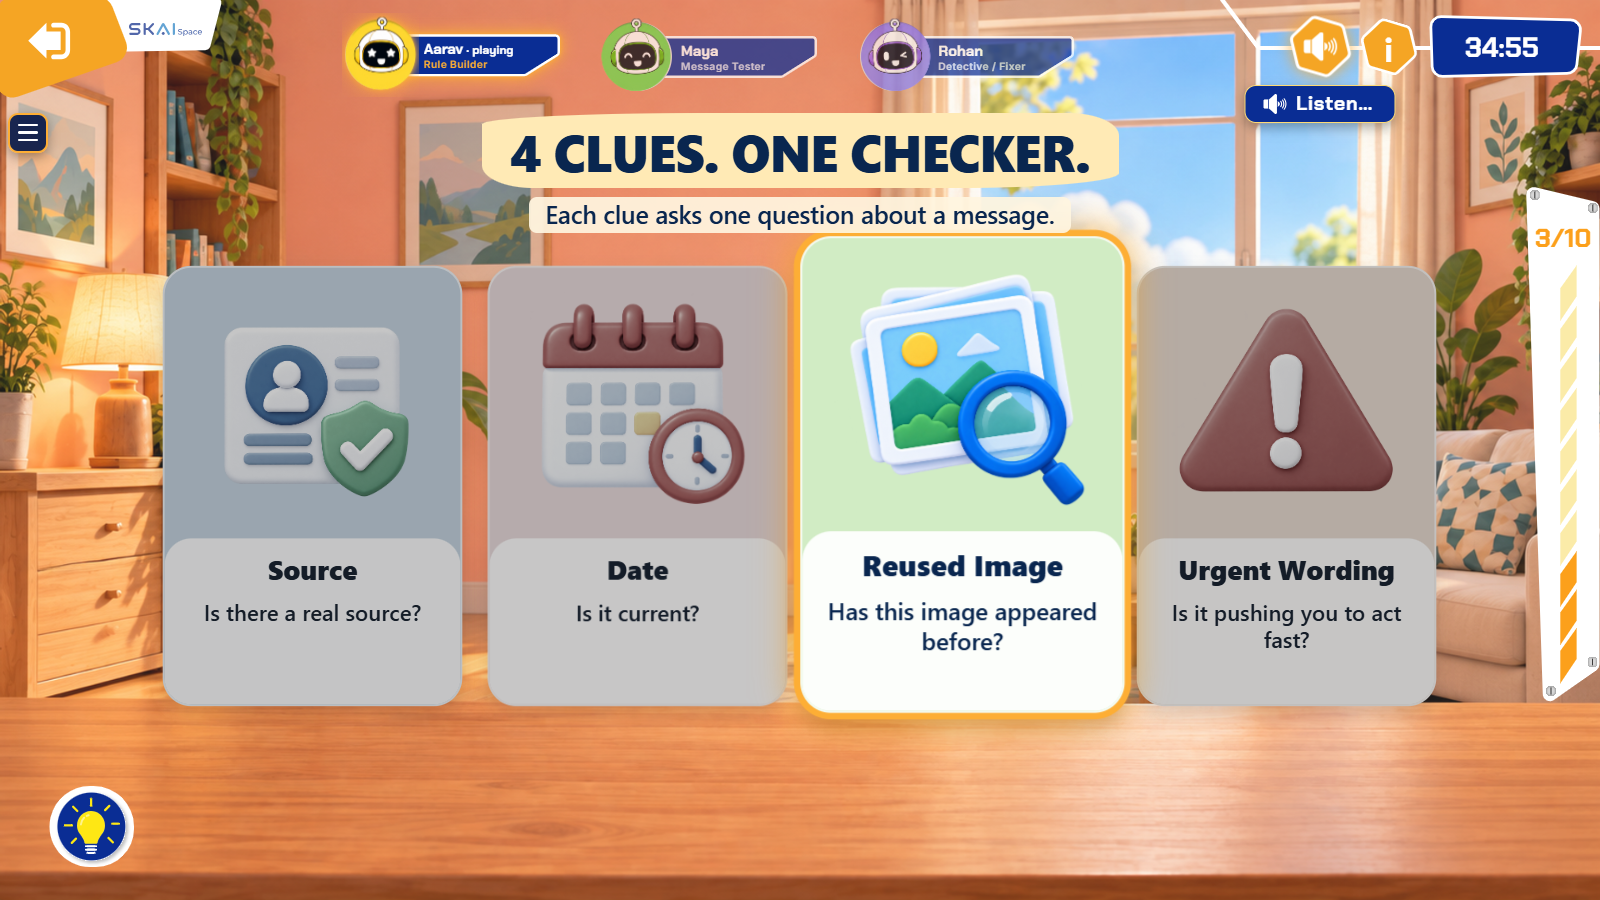
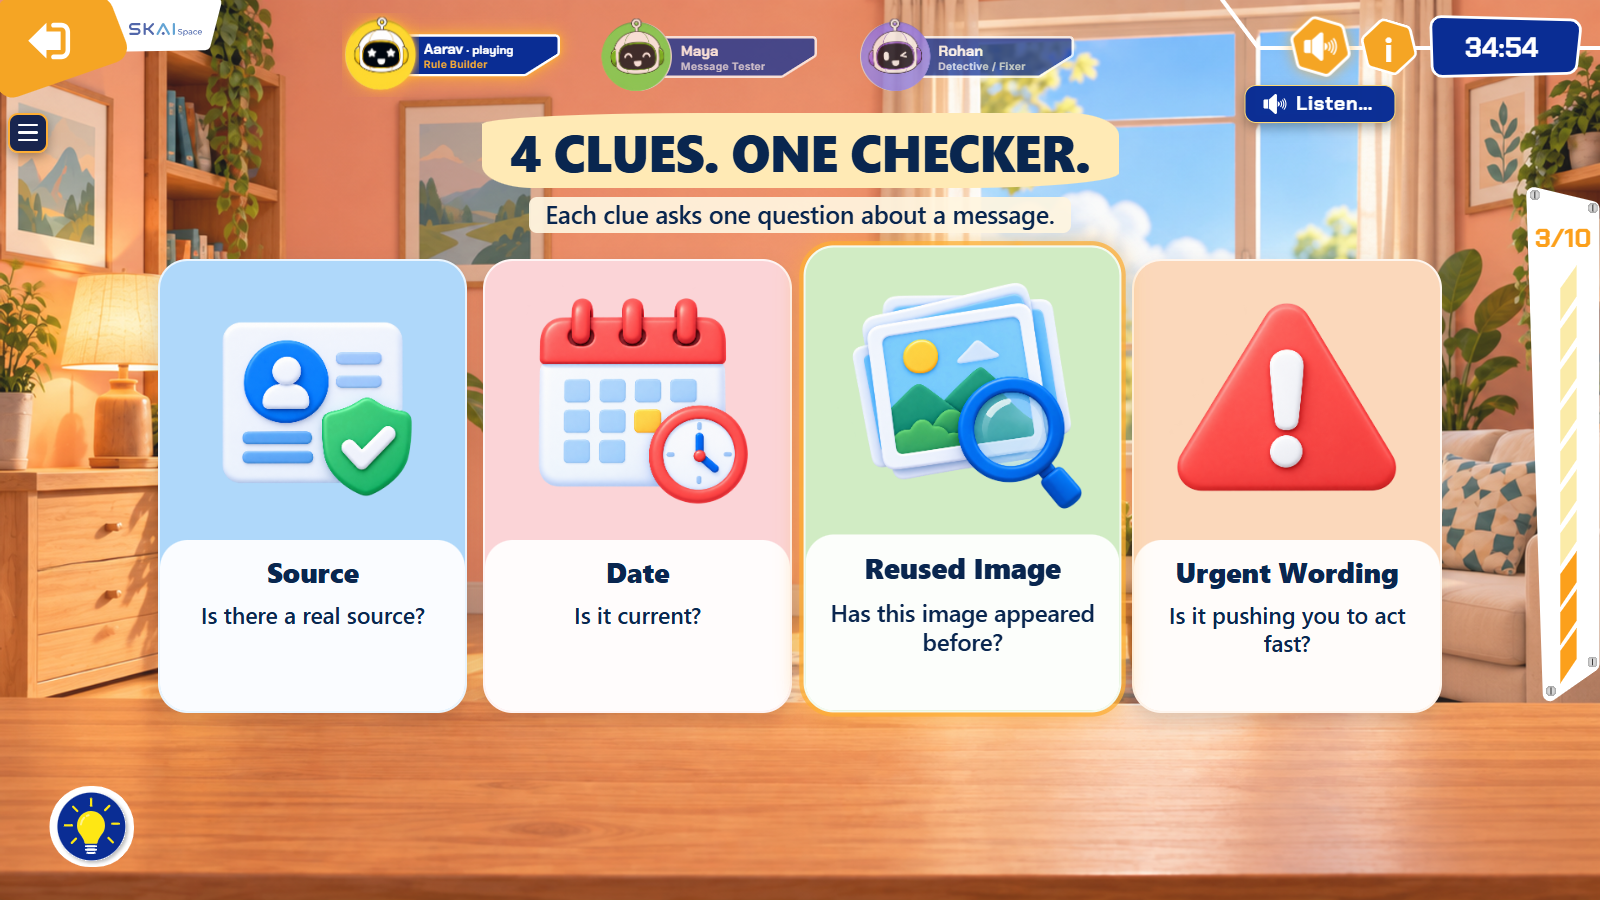
20 points

diff --git a/game.js b/game.js
@@ -61,17 +61,47 @@
   // from the pauses in each recording (see assets/audio/narration/SCRIPT.md).
   const NARRATION_CUES = {
     tutorial: [
-      { at: 1.5, until: 2.65, clues: ['source', 'date', 'image', 'urgent'] }, // "four clues"
       { at: 3.0, until: 4.15, clues: ['source'] },                          // "the source"
       { at: 4.18, until: 5.2, clues: ['date'] },                            // "the date"
       { at: 5.25, until: 6.3, clues: ['image'] },                           // "the image"
       { at: 6.35, until: 8.5, clues: ['urgent'] }                           // "and urgent words"
+    ],
+    ranking: [
+      { at: 3.75, until: 5.8, selector: '.allocation-bank' }                 // "Share twenty points"
     ]
+  };
+  // After a screen's line ends, a hand points at the first thing to tap (removed on the next re-render).
+  const NARRATION_NUDGES = {
+    ranking: '[data-change="1"][data-id="source"]'
   };
   let cueFrame = null;
 
-  function spotlightClues(ids) {
-    stage.querySelectorAll('[data-clue]').forEach(card => card.classList.toggle('narration-spotlight', ids.includes(card.dataset.clue)));
+  // Lights up what a cue names: clue cards (by id) or any element (by selector).
+  function spotlight(cue) {
+    const targets = !cue ? [] : cue.selector
+      ? [...stage.querySelectorAll(cue.selector)]
+      : cue.clues.map(id => stage.querySelector(`[data-clue="${id}"]`)).filter(Boolean);
+    stage.querySelectorAll('.narration-spotlight').forEach(el => { if (!targets.includes(el)) el.classList.remove('narration-spotlight'); });
+    targets.forEach(el => el.classList.add('narration-spotlight'));
+  }
+
+  function showHandNudge(selector) {
+    const target = stage.querySelector(selector);
+    const screen = stage.querySelector('.screen');
+    if (!target || !screen || screen.querySelector('.hand-nudge')) return;
+    const t = target.getBoundingClientRect();
+    const box = screen.getBoundingClientRect();
+    const hand = document.createElement('span');
+    hand.className = 'hand-nudge';
+    hand.setAttribute('aria-hidden', 'true');
+    hand.textContent = '👆';
+    hand.style.left = `${((t.left + t.width / 2 - box.left) / box.width) * 100}%`;
+    hand.style.top = `${((t.bottom - t.height * .2 - box.top) / box.height) * 100}%`;
+    screen.appendChild(hand);
+  }
+
+  function afterNarration(key) {
+    if (NARRATION_NUDGES[key] && narrationKey() === key) showHandNudge(NARRATION_NUDGES[key]);
   }
 
   function runNarrationCues(key) {
@@ -79,10 +109,10 @@
     const cues = NARRATION_CUES[key];
     if (!cues) return;
     const tick = () => {
-      if (!narrationLock) { spotlightClues([]); return; }
+      if (!narrationLock) { spotlight(null); return; }
       const t = narrationAudio.currentTime;
       const cue = cues.find(item => t >= item.at && t < item.until);
-      spotlightClues(cue ? cue.clues : []);
+      spotlight(cue || null);
       cueFrame = requestAnimationFrame(tick);
     };
     cueFrame = requestAnimationFrame(tick);
@@ -114,15 +144,15 @@
     narrationAudio.onended = narrationAudio.onerror = null;
     narrationAudio.pause();
     cancelAnimationFrame(cueFrame);
-    spotlightClues([]);
+    spotlight(null);
     if (narrationLock) setNarrationLock(false);
   }
 
   function playNarration(key) {
     stopNarration();
-    if (!state.soundOn || !NARRATED_SCREENS.has(key)) return;
+    if (!state.soundOn || !NARRATED_SCREENS.has(key)) { afterNarration(key); return; }
     const token = narrationToken;
-    const finish = () => { if (token === narrationToken) stopNarration(); };
+    const finish = () => { if (token === narrationToken) { stopNarration(); afterNarration(key); } };
     narrationAudio.src = `assets/audio/narration/${key}.mp3`;
     narrationAudio.onended = finish;
     narrationAudio.onerror = finish;
@@ -271,7 +301,8 @@
   function onTap(target, handler) {
     const element = typeof target === 'string' ? stage.querySelector(target) : target;
     element?.addEventListener('click', event => {
-      if (transitioning) return;
+      // Ignore taps on a button that a previous tap already replaced (e.g. a fast double-tap on Next message).
+      if (transitioning || !element.isConnected) return;
       handler(event);
     });
   }
@@ -366,6 +397,38 @@
     state = Object.assign(snapshot(entry.snapshot), entry.leaveInputs || {}, keep, { finished: false });
     tone('tap');
     setView(entry.view, entry.renderFn, { force: true, back: true });
+  }
+
+  // Same as setView but without the screen transition: the checker screen stays put and only its
+  // contents update (used between messages). History, the HUD and narration stay in sync.
+  function swapView(view, renderFn) {
+    if (transitioning) return;
+    if (currentScreen) screenHistory.push(currentScreen);
+    state.view = view;
+    state.activePlayerIndex = roleOwner(view);
+    renderFn();
+    currentScreen = { view, renderFn, snapshot: snapshot() };
+    renderProgress();
+    narrateScreen();
+  }
+
+  // A short two-note "new message" chime (respects the sound and effects switches).
+  function notificationChime() {
+    ensureAudio();
+    if (!state.soundOn || !state.sfxOn || !audioContext) return;
+    [[880, 0], [1320, .12]].forEach(([frequency, delay]) => {
+      const start = audioContext.currentTime + delay;
+      const oscillator = audioContext.createOscillator();
+      const gain = audioContext.createGain();
+      oscillator.type = 'sine';
+      oscillator.frequency.setValueAtTime(frequency, start);
+      gain.gain.setValueAtTime(.0001, start);
+      gain.gain.exponentialRampToValueAtTime(.07, start + .015);
+      gain.gain.exponentialRampToValueAtTime(.0001, start + .32);
+      oscillator.connect(gain).connect(audioContext.destination);
+      oscillator.start(start);
+      oscillator.stop(start + .34);
+    });
   }
 
   function setView(view, renderFn, { force = false, back = false } = {}) {
@@ -993,7 +1056,7 @@
       phone.setAttribute('aria-busy', 'false');
       scanNote.textContent = 'All four clues checked';
       tone(result.status === 'green' ? 'correct' : result.status === 'red' ? 'wrong' : 'drop');
-      scanLater(() => setView('result', renderResult), 650);
+      scanLater(() => swapView('result', renderResult), 650);
     }, 2750);
   }
 
@@ -1010,7 +1073,10 @@
         setView('batch', renderBatch);
       } else {
         state.currentMessageIndex += 1;
-        setView('test', renderTest);
+        swapView('test', renderTest);
+        notificationChime();
+        stage.querySelector('.phone-display')?.classList.add('message-arrived');
+        stage.querySelector('#check-message')?.focus({ preventScroll: true });
       }
     });
   }

diff --git a/styles.css b/styles.css
@@ -1574,15 +1574,46 @@ body { background: #3f3f3f; }
 #game-shell.narration-reveal #stage .primary-cta:not(.bottom-cta),
 #game-shell.narration-reveal #stage .secondary-cta:not(.bottom-cta) { animation: cta-pop .5s cubic-bezier(.34, 1.56, .64, 1) backwards; }
 
-/* Narration spotlight: the card the narrator is talking about lifts and glows. */
-#game-shell #stage [data-clue] { transition: transform .25s ease, box-shadow .25s ease, filter .25s ease; }
-#game-shell #stage [data-clue].narration-spotlight {
+/* Narration spotlight: when the narrator names a clue, only that card plays one pop-and-glow animation. */
+#game-shell #stage .narration-spotlight {
   position: relative;
   z-index: 5;
-  transform: translateY(calc(-14 * var(--u))) scale(1.05);
-  box-shadow: 0 0 0 calc(5 * var(--u)) #fdae35, 0 0 calc(34 * var(--u)) calc(6 * var(--u)) rgba(253, 174, 53, .65), 0 calc(14 * var(--u)) calc(26 * var(--u)) rgba(0, 0, 0, .25);
-  animation: narration-spotlight 1s ease-in-out infinite;
+  animation: narration-spotlight .6s cubic-bezier(.34, 1.56, .64, 1) both;
 }
-@keyframes narration-spotlight { 50% { box-shadow: 0 0 0 calc(5 * var(--u)) #fdae35, 0 0 calc(48 * var(--u)) calc(10 * var(--u)) rgba(253, 174, 53, .85), 0 calc(14 * var(--u)) calc(26 * var(--u)) rgba(0, 0, 0, .25); } }
-#game-shell #stage [data-clue].narration-spotlight { box-shadow: 0 0 0 calc(8 * var(--u)) #fdae35, 0 0 calc(40 * var(--u)) calc(10 * var(--u)) rgba(253, 174, 53, .7), 0 calc(14 * var(--u)) calc(26 * var(--u)) rgba(0, 0, 0, .25); }
-#game-shell #stage :has(> [data-clue].narration-spotlight) > [data-clue]:not(.narration-spotlight) { filter: saturate(.35) brightness(.78); transform: scale(.97); }
+@keyframes narration-spotlight {
+  from { transform: none; box-shadow: 0 0 0 0 rgba(253, 174, 53, 0); }
+  to { transform: translateY(calc(-12 * var(--u))) scale(1.04); box-shadow: 0 0 0 calc(7 * var(--u)) #fdae35, 0 0 calc(36 * var(--u)) calc(8 * var(--u)) rgba(253, 174, 53, .6); }
+}
+
+/* New message arrives on the phone (no screen change): the message slides in with a notification pop. */
+#game-shell #stage .phone-display.message-arrived .message-content { animation: message-arrive .55s cubic-bezier(.22, 1.2, .36, 1) both; }
+#game-shell #stage .phone-display.message-arrived .message-topline { animation: message-ping .9s ease-out; }
+@keyframes message-arrive { from { opacity: 0; transform: translateY(calc(-40 * var(--u))) scale(.94); } }
+@keyframes message-ping { 0% { box-shadow: inset 0 0 0 0 rgba(253, 174, 53, 0); } 30% { box-shadow: inset 0 0 0 calc(3 * var(--u)) #fdae35; } 100% { box-shadow: inset 0 0 0 0 rgba(253, 174, 53, 0); } }
+
+/* Soft-focus room background so cards and text stand out. One layer above the background image, below all content. */
+#game-shell::before {
+  content: "";
+  display: block;
+  position: absolute;
+  inset: 0;
+  z-index: 0;
+  background: rgba(20, 30, 50, .12);
+  -webkit-backdrop-filter: blur(calc(9 * var(--u))) saturate(.9);
+  backdrop-filter: blur(calc(9 * var(--u))) saturate(.9);
+  pointer-events: none;
+}
+
+/* Hand nudge: after the line ends, a tapping hand shows the player where to start. */
+#game-shell #stage .hand-nudge {
+  position: absolute;
+  z-index: 20;
+  font-size: calc(92 * var(--u));
+  line-height: 1;
+  transform: translateX(-50%);
+  filter: drop-shadow(0 calc(6 * var(--u)) calc(8 * var(--u)) rgba(0, 0, 0, .35));
+  pointer-events: none;
+  animation: hand-in .35s ease-out both, hand-tap 1.1s ease-in-out .35s infinite;
+}
+@keyframes hand-in { from { opacity: 0; transform: translate(-50%, calc(40 * var(--u))); } }
+@keyframes hand-tap { 0%, 100% { transform: translate(-50%, 0) scale(1); } 45% { transform: translate(-50%, calc(-16 * var(--u))) scale(.92); } }

diff --git a/assets/audio/narration/SCRIPT.md b/assets/audio/narration/SCRIPT.md
@@ -22,14 +22,16 @@ Generated with ElevenLabs **Multilingual v2** (`eleven_multilingual_v2`), voice 
 
 ## Highlight cues
 
-While a line names a clue, that clue's card glows and the others dim (`NARRATION_CUES` in `game.js`). Times were measured from the pauses in the recording, so re-measure them if a line is re-recorded.
+While a line names a clue, only that card plays one pop-and-glow animation (`NARRATION_CUES` in `game.js`). Times were measured from the pauses in the recording, so re-measure them if a line is re-recorded.
 
 | File | Seconds | Card(s) lit |
 |---|---|---|
-| tutorial.mp3 | 1.5–2.65 | all four ("four clues") |
 | tutorial.mp3 | 3.0–4.15 | Source ("the source") |
 | tutorial.mp3 | 4.18–5.2 | Date ("the date") |
 | tutorial.mp3 | 5.25–6.3 | Image ("the image") |
 | tutorial.mp3 | 6.35–8.5 | Urgent words ("and urgent words") |
+| ranking.mp3 | 3.75–5.8 | the 20-points bank ("Share twenty points") |
+
+After the ranking line ends, a tapping hand points at the Source "+" button (`NARRATION_NUDGES` in `game.js`); it disappears on the first tap.
 
 Background music is fully silenced while any line plays and resumes when it ends.
